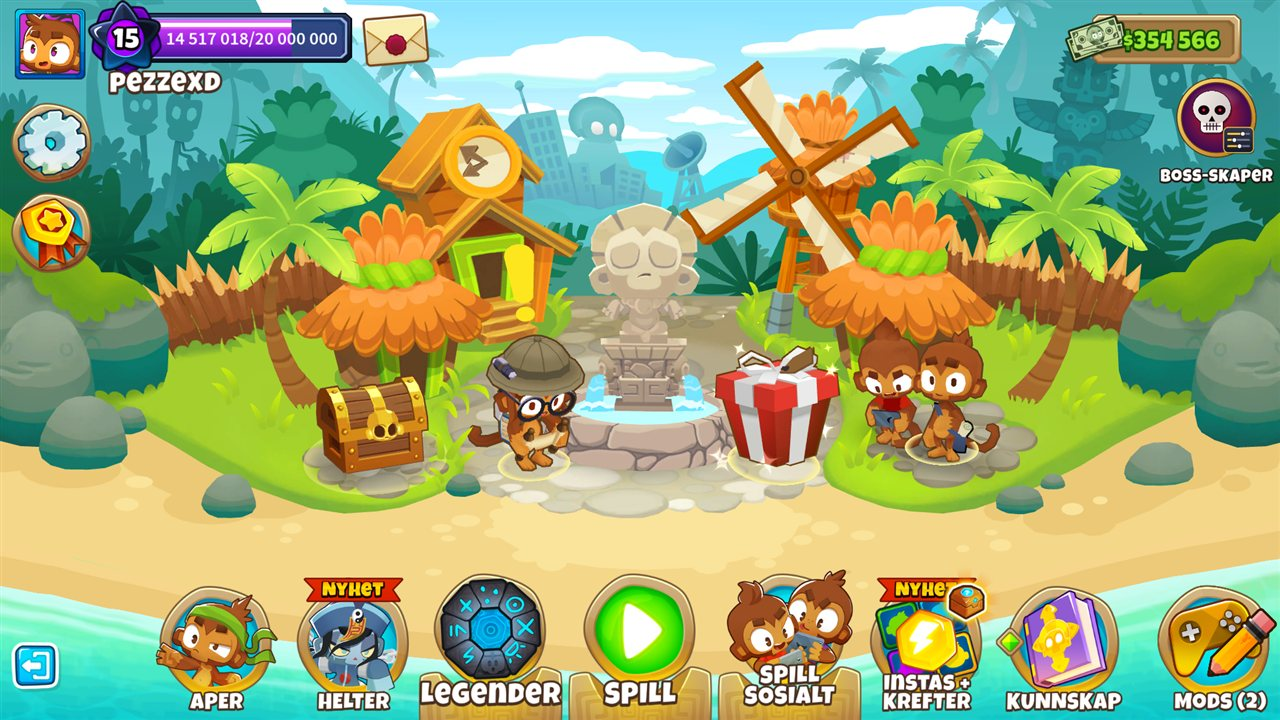
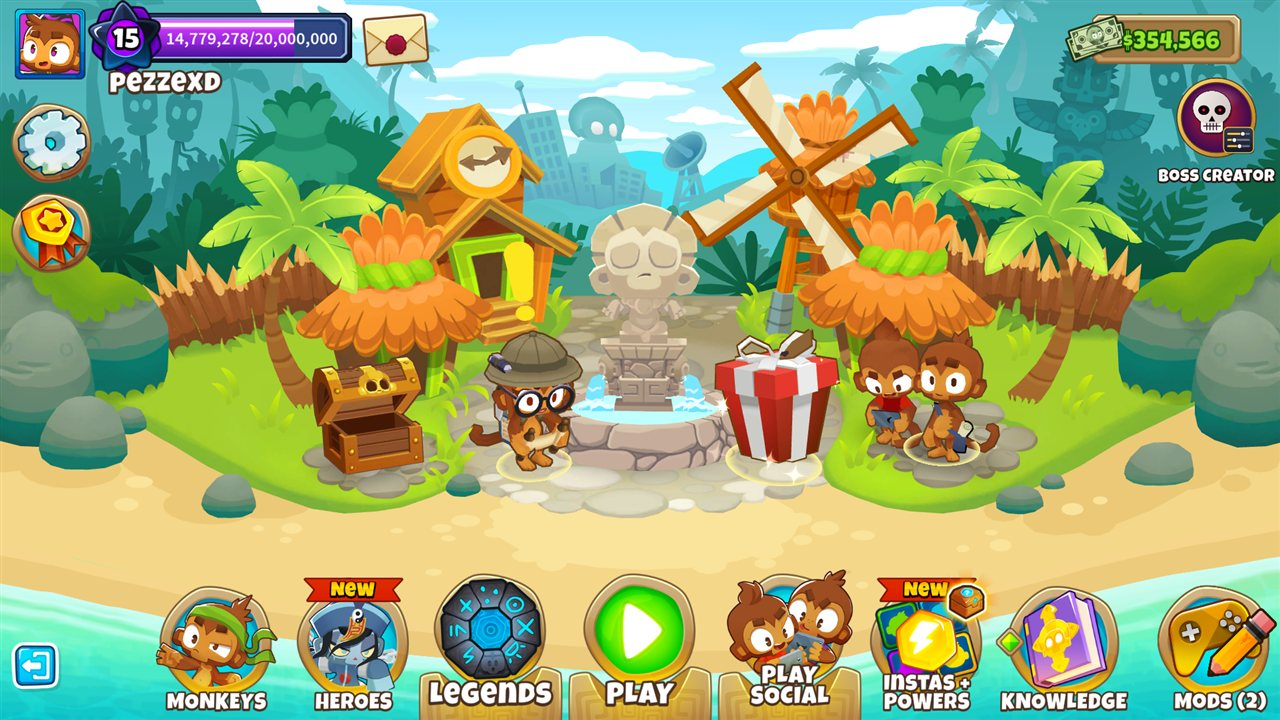
Bump version to 2.0.1 with English README screenshots

diff --git a/Tests/ScreenshotTour.cs b/Tests/ScreenshotTour.cs
@@ -60,7 +60,8 @@ public class ScreenshotTour : CustomBossTest
                 Boss = BossType.Vortex, Elite = true, Tiers = 7, ExtraTierHealth = 175,
                 SkullMode = SkullMode.Custom, CustomSkulls = "80, 60, 40, 20"
             };
-            editor!.dcm.bloonModifiers.bossSpeedMultiplier = 1.5f;
+            editor!.chalName.text = editor.dcm.name = BossMode.DefaultName(BossType.Vortex);
+            editor.dcm.bloonModifiers.bossSpeedMultiplier = 1.5f;
             editor.dcm.bloonModifiers.healthMultipliers.boss = 3;
             BossEditorSection.Current!.Load(editor.dcm, BossMode.Options);
             yield return new WaitForSecondsRealtime(1);

diff --git a/ModHelperData.cs b/ModHelperData.cs
@@ -3,7 +3,7 @@ namespace CustomBossChallenge;
 public static class ModHelperData
 {
     public const string WorksOnVersion = "55.0";
-    public const string Version = "2.0.0";
+    public const string Version = "2.0.1";
     public const string Name = "CustomBossChallenge";
 
     public const string Description = "Adds a Boss Creator to the main menu: the Challenge Editor with boss options. Pick any boss (or Elite), change its speed, health and skulls, play 1 to 10 tiers on the rounds you choose, and combine it with every Challenge Editor rule. Custom games are always unranked and never touch your records or saves.";

diff --git a/README.md b/README.md
@@ -37,6 +37,8 @@ Event and your Boss Challenge records and saves are never affected.
 
 ![Boss options](docs/boss-options.jpg)
 
+![Info popup](docs/info-popup.jpg)
+
 ## Usage
 
 1. Click **Boss Creator** on the main menu (below the event buttons on the right).

diff --git a/CHANGELOG.md b/CHANGELOG.md
@@ -9,6 +9,10 @@ and this project adheres to [Semantic Versioning](https://semver.org/spec/v2.0.0
 
 ## [Unreleased]
 
+### Changed
+
+- New English screenshots in the README, including the info popup.
+
 ## [2.0.0] - 2026-10-17
 
 ### Added
